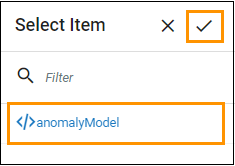
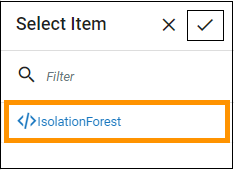
Changes to Anomaly Detection Demo Use-Case

diff --git a/content/machine-learning/anomaly-detection-bundle/anomaly-detection-using-smartphone.md b/content/machine-learning/anomaly-detection-bundle/anomaly-detection-using-smartphone.md
@@ -15,7 +15,7 @@ Registering a smartphone in Cumulocity IoT involves installing the Cloud Sensor 
 
 Once registered, try to get the device ID by looking up your device on the **All Devices** page of your tenant's Device Management application. Now, note down the device ID of your registered phone.
 
-In contrast to supervised classification models, no labeled training data is required for anomaly detection models. The training happens with the regular data, and any unseen behavior will later be detected as anomalous. The data can be collected by carrying around the registered device over a few days without any anomalous behavior. All data can then be accessed via the Cumulocity IoT Machine Learning Workbench which automatically transforms the JSON data into the training data format.
+In contrast to supervised classification models, no labeled training data is required for anomaly detection models. The training happens with the regular data, and any unseen behavior will later be detected as anomalous. The data can be collected by carrying around the registered device over a few days without any anomalous behavior. All data can then be accessed via the Cumulocity IoT Machine Learning Workbench which automatically transforms the JSON data into the training data format. For this demo, use the data provided within the zip file.
 
 #### Upload Training Data with Cumulocity IoT Machine Learning Workbench (MLW)
 
@@ -29,6 +29,7 @@ The data recorded on your smartphone can be downloaded using MLW. To download th
 
 4. To upload the provided *dataset_training.csv* file, click the cloud upload icon <img src="/images/zementis/mlw-upload-icon.png" alt="Upload" style="display:inline-block; margin:0"> and either click on the upload pane and select the file for uploading or use the drag and drop files capability.
 
+![Upload training dataset](/images/zementis/AnomalyDetection/anomaly-training-dataset.png)
 
 #### Train the PMML model
 
@@ -45,6 +46,8 @@ The following steps illustrate how to train an Isolation Forests machine learnin
 2. To edit a notebook, select the *createModel.ipynb* notebook file in the **Code** folder and click the edit icon <img src="/images/zementis/mlw-edit-icon.png" alt="Edit" style="display:inline-block; margin:0"> at the top right.
 
 3. This will open the notebook in an editor. Run each cell of the notebook to train an Isolation Forests PMML model.
+
+![Train Model usng Jupyter Notebook](/images/zementis/AnomalyDetection/anomaly-jnb.png)
 
 4. The PMML model named *isolationForests.pmml* will show up in the **Model** folder of the MLW when one clicks on the refresh button <img src="/images/zementis/mlw-refresh-icon.png" alt="Edit" style="display:inline-block; margin:0">
 

diff --git a/content/machine-learning/anomaly-detection-bundle/overview.md b/content/machine-learning/anomaly-detection-bundle/overview.md
@@ -11,8 +11,8 @@ Anomaly detection (also outlier detection) is the identification of items, event
 
 Capturing anomalous events through the sensor data of a mobile device on an IoT platform can for instance serve the purpose of detecting accidents of elderly people living without a caretaker. Regular behavior sensor data of a person can be collected over a period of time. This data can then be used to train an anomaly detection model. As soon as an irregularity in behavior data is observed, e.g. the person falls down, an anomaly can be detected. For the purpose of showcasing this use case, we followed these steps:
 
-* Collect sensor data from a user performing regular everyday tasks.
-* With the collected data, Train an anomaly detection model using AutoML that transforms the model to PMML.
+* Upload the provided sensor data from a user performing regular everyday tasks.
+* With the provided data, train an anomaly detection model using the Jupyter Notebook and convert the model to PMML.
 * Deploy the model to Cumulocity IoT using the Machine Learning Workbench application.
 * Create and upload an EPL rule to Cumulocity (C8Y) IoT which does the following:
 	* Gathers specific measurements coming from the source device and conducts any necessary pre-processing steps.

diff --git a/content/machine-learning/anomaly-detection-bundle/prerequisites.md b/content/machine-learning/anomaly-detection-bundle/prerequisites.md
@@ -7,11 +7,11 @@ aliases:
   - /predictive-analytics/anomaly-detection/#prerequisites
 ---
 
-[Download the AnomalyDetectionDemo.zip](/files/zementis/AnomalyDetectionDemo.zip) file which contains demo scripts, test data set, PMML model and the EPL rule.
+[Download the AnomalyDetectionDemo.zip](/files/zementis/AnomalyDetectionDemo.zip) file which contains training data set, jupyter notebook, test data set, PMML model and the EPL rule.
 
 Running the demo requires 
 
 * Prior experience and understanding of data science processes.
 * Familiarity with Cumulocity IoT and its in-built apps.
-* Subscription of the Zementis microservice (10.5.0.x.x or higher), MLW microservice (10.7.0.x.x or higher), Machine Learning application and the Machine Learning Workbench application on the tenant.
+* Subscription of the Zementis microservice (10.5.0.x.x or higher), MLW microservice (10.9.0.x.x or higher), Machine Learning application and the Machine Learning Workbench application on the tenant.
 * Subscription of the Apama-ctrl microservice and the Apama-epl application on the tenant.
